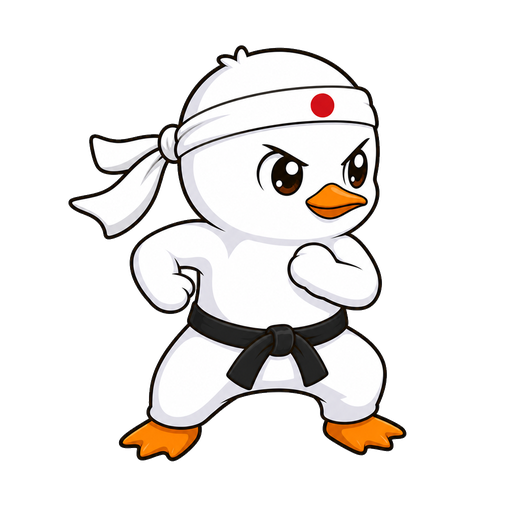
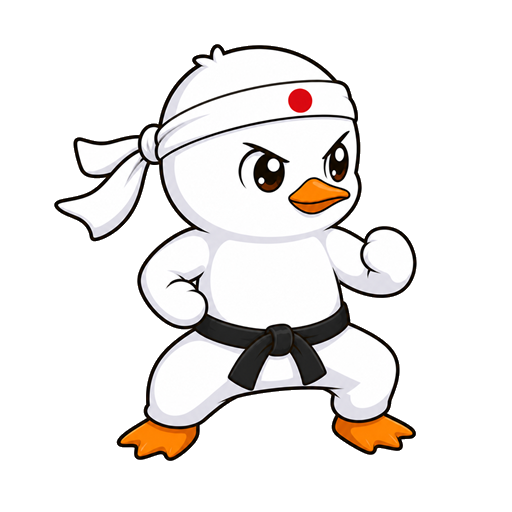
飛奔金臂勾改真衝刺(不再瞬移)+三傑攻擊逐格上線(Codex)
- 飛奔金臂勾:charge_line從「座標瞬移+沿線結算」改成真的跑過去——dashState帶位移
  (820px/s跑完260px),沿路撞到誰誰倒(貫穿不停步,每個命中有壓扁+重擊聲+頓幀)
  實測位移曲線0→34→81→109→171→220,33幀跑完
- 三傑攻擊逐格(Codex依風格錨點重畫,取代共用出拳幀):
  空手道=收拳→正拳(轉髖全伸展)→跟隨;摔角=拉臂過肩→逆水平橫掃→過身;
  武士=舉刀→袈裟斬(低架)→殘心。怒眉三幀一致(舊圖第三幀變臉bug一併解決)
- 幀後製鐵則:整張等比縮放不裁切,保幀間對位

Changed region(s): [[0.0938, 0.0625, 0.8125, 0.9062], [0.4375, 0.625, 0.4688, 0.6562]]

diff --git a/src/engine.js b/src/engine.js
@@ -1624,6 +1624,19 @@ function updateTechniques(dt) {
             p.dashState = null;
           }
           break;
+        } else if (s.id === 'clothesline' && !e.hitByDash) {
+          // 飛奔金臂勾：奔跑中掛到誰誰倒，不停步、貫穿整排
+          e.hitByDash = true; s.hitAny = true;
+          const aL = Math.atan2(s.dy, s.dx);
+          hurtEnemy(e, techDmg(s.chargeDmg || 55) * (s.boost || 1), { crit: chance(0.35), fromAngle: aL });
+          if (!e.dead) {
+            const kb = e.boss ? (s.chargeKnock || 380) * 0.2 : (s.chargeKnock || 380);
+            e.knockX += Math.cos(aL) * kb; e.knockY += Math.sin(aL) * kb;
+            e.stun = Math.max(e.stun, e.boss ? (s.chargeStun || 1) * 0.4 : (s.chargeStun || 1));
+            e.hitSquash = Math.max(e.hitSquash || 0, 0.24);
+          }
+          sfx('hit_heavy');
+          addHitstop(0.05, true);
         } else if (s.id === 'seiken' && !e.hitByDash) {
           // 飛込正拳：只打碰到的第一個敵人，釘住，下一拳必定爆擊
           e.hitByDash = true; s.hitAny = true;
@@ -1977,29 +1990,17 @@ function castOugi(o, target) {
       break;
     }
     case 'charge_line': {
-      // 橫掛衝鋒：朝方向衝一段，路徑上的人全部被掛倒
+      // 橫掛衝鋒：真的跑過去（不是瞬移）——dashState 帶位移，沿路撞到誰誰倒
       const dirC = dashDir();
-      const ex2 = Math.max(p.r, Math.min(ARENA.w - p.r, p.x + dirC.x * pr.len));
-      const ey2 = Math.max(p.r, Math.min(ARENA.h - p.r, p.y + dirC.y * pr.len));
       const aC = Math.atan2(dirC.y, dirC.x);
-      for (const o2 of G.enemies) {
-        if (o2.dead) continue;
-        const t2 = Math.max(0, Math.min(1,
-          ((o2.x - p.x) * (ex2 - p.x) + (o2.y - p.y) * (ey2 - p.y)) / (dist2(p.x, p.y, ex2, ey2) || 1)));
-        const qx = p.x + (ex2 - p.x) * t2, qy = p.y + (ey2 - p.y) * t2;
-        if (dist2(o2.x, o2.y, qx, qy) < (pr.width / 2 + o2.r) * (pr.width / 2 + o2.r)) {
-          hurtEnemy(o2, techDmg(pr.dmg), { crit: chance(0.35), fromAngle: aC });
-          if (!o2.dead) {
-            const kb = o2.boss ? pr.knock * 0.2 : pr.knock;
-            o2.knockX += Math.cos(aC) * kb; o2.knockY += Math.sin(aC) * kb;
-            o2.stun = Math.max(o2.stun, o2.boss ? pr.stun * 0.4 : pr.stun);
-          }
-        }
-      }
-      spawnFx('swing', p.x, p.y, '#c98a3c', 130, { angle: aC, arc: 150, type: 'arc' });
-      p.pose = { type: pr.pose || 'swing', ang: aC, t: 0, dur: 0.35, prio: 1 };
-      p.x = ex2; p.y = ey2;
-      pushOutOfWalls(p);
+      const spdC = pr.chargeSpd || 820;
+      p.dashState = {
+        id: 'clothesline', dx: dirC.x, dy: dirC.y,
+        t: pr.len / spdC, spd: spdC,
+        chargeDmg: pr.dmg, chargeKnock: pr.knock, chargeStun: pr.stun,
+        chargeW: pr.width / 2, boost: 1,
+      };
+      p.pose = { type: pr.pose || 'swing', ang: aC, t: 0, dur: pr.len / spdC + 0.15, prio: 1 };
       spawnFx('slide', p.x, p.y, '#c98a3c', 40, { angle: aC });
       sfx('wind');
       ok = true; break;
